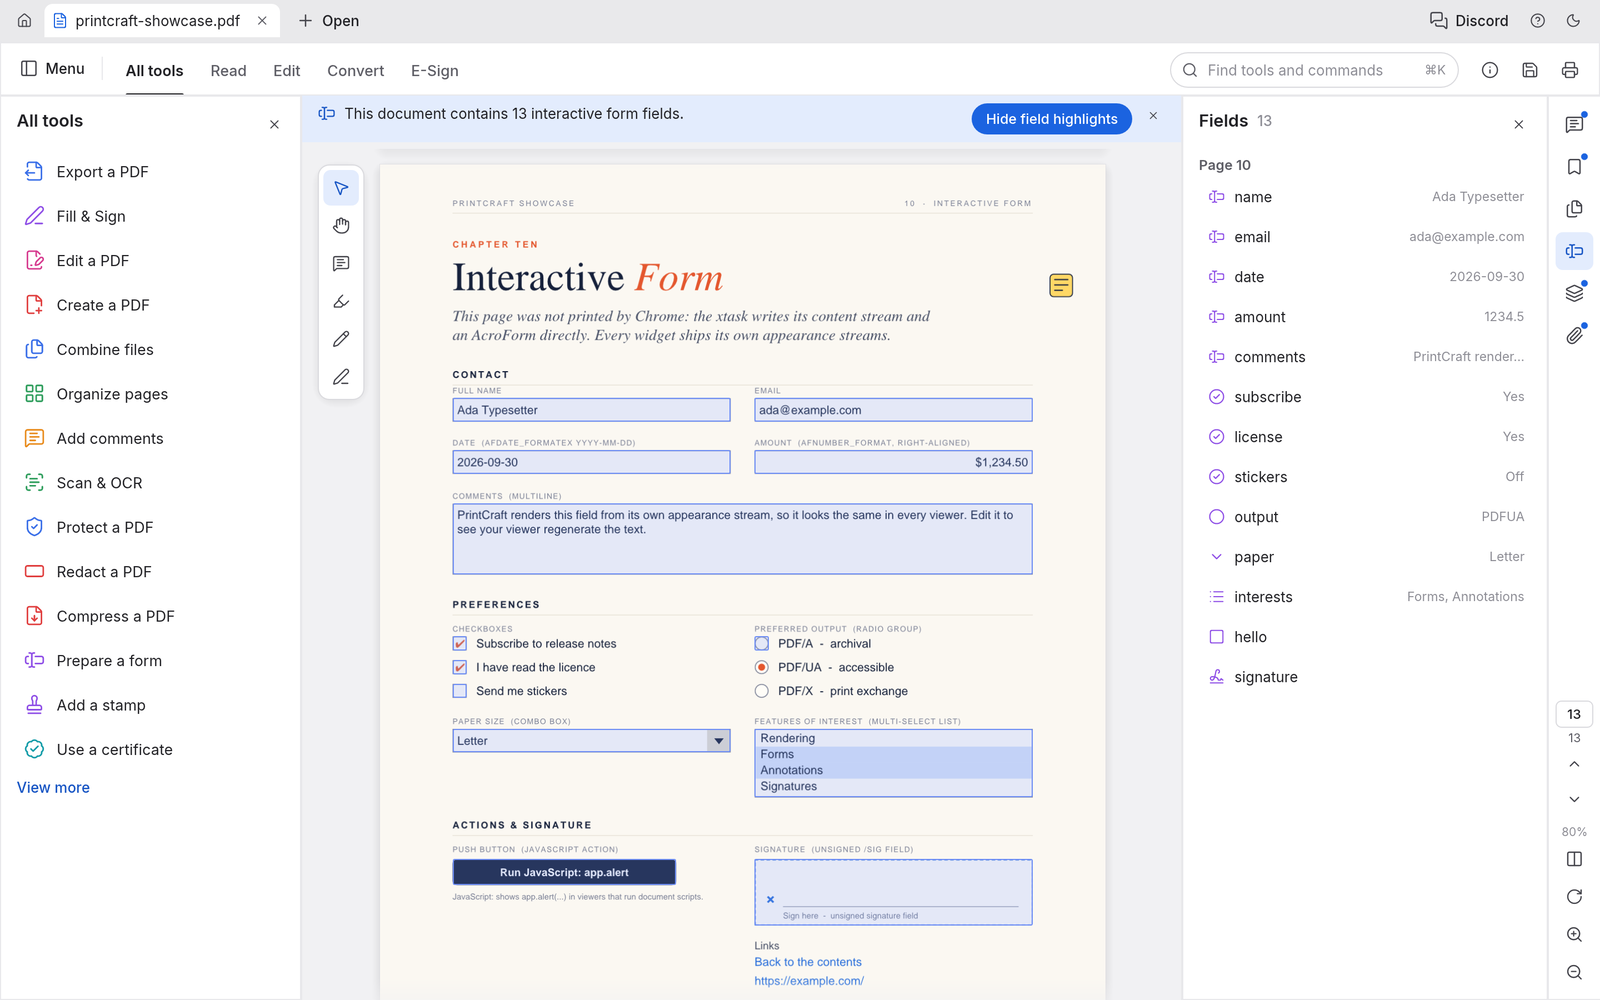
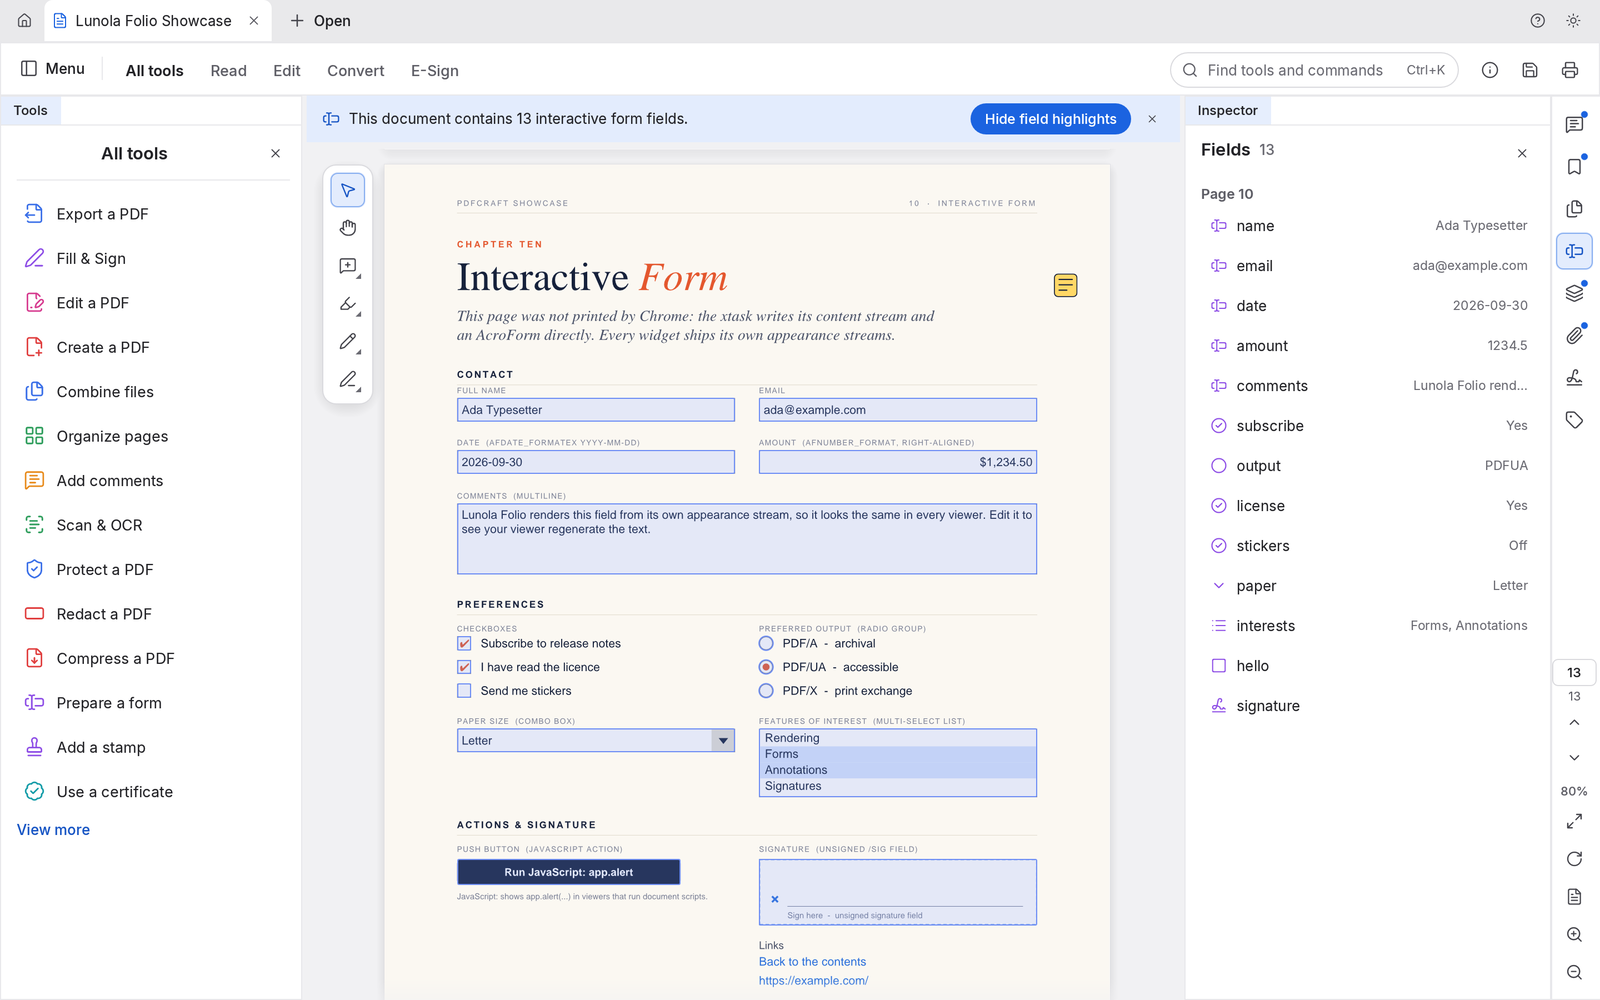
Screenshots: regenerate them, and fix the branding they exposed
The README screenshots were still upstream renders. Regenerating them found
three real bugs, each hidden because the failures were silent:

- The demo-PDF builder wrote dist/demo/pdfcraft-showcase.pdf while the
  screenshot job read dist/demo/lunola-folio-showcase.pdf, so every shot
  rendered an empty viewer. Five of the thirteen were byte-identical, which is
  what gave it away.
- The annotation markers in assets/demo/showcase.html said
  mark.lunola-folio.invalid while the post-processor matched
  mark.pdfcraft.invalid, so the showcase carried 5 annotations instead of 24.
- The showcase cover still read "PrintCraft Showcase".

All thirteen shots now render the document (13 distinct hashes, 377-834 KB),
the cover reads "Lunola Folio Showcase", and the showcase carries its full 24
annotations. Verified by reading the rendered images, not just the exit code.

cargo xtask assets: ok (276 assets).

diff --git a/assets/demo/showcase.html b/assets/demo/showcase.html
@@ -347,7 +347,7 @@ a.box { position: absolute; display: block; color: transparent; font-size: 1pt; 
   </svg>
   <div class="inner">
     <div class="edition">Specimen &middot; Volume One</div>
-    <h1>Print<span class="it">Craft</span><br>Showcase</h1>
+    <h1>Lunola <span class="it">Folio</span><br>Showcase</h1>
     <div class="grad">A tour of the page, glyph by glyph.</div>
     <p class="sub">Typography, world scripts, vector graphics, mathematics, forms and annotations &mdash; gathered in one document to put a PDF engine through its paces.</p>
     <div class="meta">

diff --git a/xtask/src/demo_pdf/postprocess.rs b/xtask/src/demo_pdf/postprocess.rs
@@ -8,14 +8,14 @@ use super::form::{self, FormInputs};
 use super::pdf::{Content, Font, Fonts, Stamp, colors, name, text};
 
 /// Links to this prefix in showcase.html mark where annotations go.
-const MARKER_PREFIX: &str = "https://mark.pdfcraft.invalid/";
+const MARKER_PREFIX: &str = "https://mark.lunola-folio.invalid/";
 
 const TITLE: &str = "Lunola Folio Showcase";
 const AUTHOR: &str = "Lunola Folio";
 const SUBJECT: &str = "A specimen document exercising typography, world scripts, vector graphics, \
                        MathML, forms, annotations, layers and attachments.";
 const KEYWORDS: &[&str] = &["PDF", "typography", "OpenType", "AcroForm", "annotations", "optional content", "Lunola Folio"];
-const CREATOR: &str = "pdfcraft xtask demo-pdf";
+const CREATOR: &str = "lunola-folio xtask demo-pdf";
 
 /// Chrome-printed page indices (0-based) that the post-processor refers to.
 const PAGE_CONTENTS: usize = 1;

diff --git a/crates/automation/tests/automation.rs b/crates/automation/tests/automation.rs
@@ -1639,7 +1639,7 @@ fn protecting_with_a_password_encryption_ignores_is_refused() {
 #[test]
 fn forms_through_tools() {
     let dir = workdir("forms");
-    let src = std::path::Path::new(env!("CARGO_MANIFEST_DIR")).join("../../dist/demo/pdfcraft-showcase.pdf");
+    let src = std::path::Path::new(env!("CARGO_MANIFEST_DIR")).join("../../dist/demo/lunola-folio-showcase.pdf");
     if !src.exists() {
         eprintln!("skipped: run `cargo xtask demo-pdf` for the showcase form");
         return;

diff --git a/xtask/src/demo_pdf/mod.rs b/xtask/src/demo_pdf/mod.rs
@@ -36,7 +36,7 @@ pub fn run(args: &[String]) -> Result<()> {
     }
 
     let root = repo_root();
-    let out = out_override.unwrap_or_else(|| root.join("dist/demo/pdfcraft-showcase.pdf"));
+    let out = out_override.unwrap_or_else(|| root.join("dist/demo/lunola-folio-showcase.pdf"));
     let build = root.join("dist/demo/build");
     fs::create_dir_all(&build).with_context(|| format!("creating {}", build.display()))?;
     if let Some(parent) = out.parent() {

diff --git a/xtask/src/demo_pdf/annots.rs b/xtask/src/demo_pdf/annots.rs
@@ -119,7 +119,7 @@ impl Annotator {
             "Subj" => text(subtype),
             "M" => Object::string_literal(when.pdf.clone()),
             "CreationDate" => Object::string_literal(when.pdf),
-            "NM" => Object::string_literal(format!("pdfcraft-showcase-{:03}-{}", self.seq, subtype.to_lowercase())),
+            "NM" => Object::string_literal(format!("lunola-folio-showcase-{:03}-{}", self.seq, subtype.to_lowercase())),
         }
     }
 

diff --git a/ATTRIBUTION.md b/ATTRIBUTION.md
@@ -245,19 +245,6 @@ Every asset Lunola Folio includes, bundles or uses to build its published materi
 | `assets/app-icon/hicolor/128x128/apps/dev.pujosety.lunola-folio.png` | Lunola Folio app icon, 128 px | Lunola Folio contributors (product owner's original artwork for the Lunola Folio rebrand; downsampled with Lanczos) | MIT OR Apache-2.0 | Contributor-original (see assets/app-icon/README.md) | Linux hicolor theme icon (packaging/linux/dev.pujosety.lunola-folio.desktop) |
 | `assets/app-icon/hicolor/256x256/apps/dev.pujosety.lunola-folio.png` | Lunola Folio app icon, 256 px | Lunola Folio contributors (product owner's original artwork for the Lunola Folio rebrand; downsampled with Lanczos) | MIT OR Apache-2.0 | Contributor-original (see assets/app-icon/README.md) | Linux hicolor theme icon (packaging/linux/dev.pujosety.lunola-folio.desktop); runtime window icon on Windows and Linux (apps/lunola-folio/src/main.rs) |
 | `assets/app-icon/hicolor/512x512/apps/dev.pujosety.lunola-folio.png` | Lunola Folio app icon, 512 px | Lunola Folio contributors (product owner's original artwork for the Lunola Folio rebrand; downsampled with Lanczos) | MIT OR Apache-2.0 | Contributor-original (see assets/app-icon/README.md) | Linux hicolor theme icon (packaging/linux/dev.pujosety.lunola-folio.desktop) |
-| `docs/images/lunola-folio-bookmarks.png` | Lunola Folio screenshot: Bookmarks | Lunola Folio contributors (generated by `cargo xtask screenshots`) | MIT OR Apache-2.0 | this repository | README: navigation. Shows only Lunola Folio UI, Lucide icons and the showcase PDF built from the [[fetched]] OFL fonts |
-| `docs/images/lunola-folio-dark.png` | Lunola Folio screenshot: Dark theme | Lunola Folio contributors (generated by `cargo xtask screenshots`) | MIT OR Apache-2.0 | this repository | README: themes. Shows only Lunola Folio UI, Lucide icons and the showcase PDF built from the [[fetched]] OFL fonts |
-| `docs/images/lunola-folio-find.png` | Lunola Folio screenshot: Find text | Lunola Folio contributors (generated by `cargo xtask screenshots`) | MIT OR Apache-2.0 | this repository | README: search. Shows only Lunola Folio UI, Lucide icons and the showcase PDF built from the [[fetched]] OFL fonts |
-| `docs/images/lunola-folio-forms.png` | Lunola Folio screenshot: Interactive form | Lunola Folio contributors (generated by `cargo xtask screenshots`) | MIT OR Apache-2.0 | this repository | README: forms. Shows only Lunola Folio UI, Lucide icons and the showcase PDF built from the [[fetched]] OFL fonts |
-| `docs/images/lunola-folio-layers.png` | Lunola Folio screenshot: Layers | Lunola Folio contributors (generated by `cargo xtask screenshots`) | MIT OR Apache-2.0 | this repository | README: layers. Shows only Lunola Folio UI, Lucide icons and the showcase PDF built from the [[fetched]] OFL fonts |
-| `docs/images/lunola-folio-organize.png` | Lunola Folio screenshot: Organize pages | Lunola Folio contributors (generated by `cargo xtask screenshots`) | MIT OR Apache-2.0 | this repository | README: organize. Shows only Lunola Folio UI, Lucide icons and the showcase PDF built from the [[fetched]] OFL fonts |
-| `docs/images/lunola-folio-palette.png` | Lunola Folio screenshot: Command palette | Lunola Folio contributors (generated by `cargo xtask screenshots`) | MIT OR Apache-2.0 | this repository | README: tools. Shows only Lunola Folio UI, Lucide icons and the showcase PDF built from the [[fetched]] OFL fonts |
-| `docs/images/lunola-folio-properties.png` | Lunola Folio screenshot: Document properties | Lunola Folio contributors (generated by `cargo xtask screenshots`) | MIT OR Apache-2.0 | this repository | README: metadata. Shows only Lunola Folio UI, Lucide icons and the showcase PDF built from the [[fetched]] OFL fonts |
-| `docs/images/lunola-folio-scripts.png` | Lunola Folio screenshot: Scripts of the world | Lunola Folio contributors (generated by `cargo xtask screenshots`) | MIT OR Apache-2.0 | this repository | README: rendering. Shows only Lunola Folio UI, Lucide icons and the showcase PDF built from the [[fetched]] OFL fonts |
-| `docs/images/lunola-folio-split.png` | Lunola Folio screenshot: Split dialog | Lunola Folio contributors (generated by `cargo xtask screenshots`) | MIT OR Apache-2.0 | this repository | README: split. Shows only Lunola Folio UI, Lucide icons and the showcase PDF built from the [[fetched]] OFL fonts |
-| `docs/images/lunola-folio-tools.png` | Lunola Folio screenshot: All tools | Lunola Folio contributors (generated by `cargo xtask screenshots`) | MIT OR Apache-2.0 | this repository | README: tool catalogue. Shows Lunola Folio UI, Lucide icons, the showcase PDF built from the [[fetched]] OFL fonts, and the Lunola mark (Storyteller trademark from docs/brand/, not covered by this licence) |
-| `docs/images/lunola-folio-twoup.png` | Lunola Folio screenshot: Two-up reading | Lunola Folio contributors (generated by `cargo xtask screenshots`) | MIT OR Apache-2.0 | this repository | README: layouts. Shows only Lunola Folio UI, Lucide icons and the showcase PDF built from the [[fetched]] OFL fonts |
-| `docs/images/lunola-folio-viewer.png` | Lunola Folio screenshot: Viewer with comments | Lunola Folio contributors (generated by `cargo xtask screenshots`) | MIT OR Apache-2.0 | this repository | README hero. Shows only Lunola Folio UI, Lucide icons and the showcase PDF built from the [[fetched]] OFL fonts |
 | `assets/icons/pin.svg` | Lucide icon "pin" | Lucide Contributors (portions Cole Bemis, Feather) | ISC | https://github.com/lucide-icons/lucide (npm lucide-static 1.49.0, icons/pin.svg) | UI icon, embedded via crates/ui-egui/src/icon_data.rs |
 | `assets/icons/move-right.svg` | Lucide icon "move-right" | Lucide Contributors (portions Cole Bemis, Feather) | ISC | https://github.com/lucide-icons/lucide (npm lucide-static 1.49.0, icons/move-right.svg) | UI icon, embedded via crates/ui-egui/src/icon_data.rs |
 | `assets/icons/reply.svg` | Lucide icon "reply" | Lucide Contributors (portions Cole Bemis, Feather) | ISC | https://github.com/lucide-icons/lucide (npm lucide-static 1.49.0, icons/reply.svg) | UI icon, embedded via crates/ui-egui/src/icon_data.rs |
@@ -284,6 +271,19 @@ Every asset Lunola Folio includes, bundles or uses to build its published materi
 | `assets/app-icon/lunola-folio-256.png` | Lunola Folio app icon, 256 px | Lunola Folio contributors (product owner's original artwork for the Lunola Folio rebrand; downsampled with Lanczos) | MIT OR Apache-2.0 | Contributor-original (see assets/app-icon/README.md) | Downsampled icon; source of the .ico/.icns entries and of the Linux hicolor set |
 | `assets/app-icon/lunola-folio-512.png` | Lunola Folio app icon, 512 px | Lunola Folio contributors (product owner's original artwork for the Lunola Folio rebrand; downsampled with Lanczos) | MIT OR Apache-2.0 | Contributor-original (see assets/app-icon/README.md) | Downsampled icon; source of the .ico/.icns entries and of the Linux hicolor set |
 | `assets/app-icon/hicolor/1024x1024/apps/dev.pujosety.lunola-folio.png` | Lunola Folio app icon, 1024 px (Linux hicolor) | Lunola Folio contributors (product owner's original artwork for the Lunola Folio rebrand; downsampled with Lanczos) | MIT OR Apache-2.0 | Contributor-original (see assets/app-icon/README.md) | Linux hicolor theme icon (packaging/linux/dev.pujosety.lunola-folio.desktop) |
+| `docs/images/lunola-folio-bookmarks.png` | Lunola Folio screenshot: Bookmarks | Lunola Folio contributors (generated by `cargo xtask screenshots`) | MIT OR Apache-2.0 | this repository | README: navigation. Shows only Lunola Folio UI, Lucide icons and the showcase PDF built from the [[fetched]] OFL fonts |
+| `docs/images/lunola-folio-dark.png` | Lunola Folio screenshot: Dark theme | Lunola Folio contributors (generated by `cargo xtask screenshots`) | MIT OR Apache-2.0 | this repository | README: themes. Shows only Lunola Folio UI, Lucide icons and the showcase PDF built from the [[fetched]] OFL fonts |
+| `docs/images/lunola-folio-find.png` | Lunola Folio screenshot: Find text | Lunola Folio contributors (generated by `cargo xtask screenshots`) | MIT OR Apache-2.0 | this repository | README: search. Shows only Lunola Folio UI, Lucide icons and the showcase PDF built from the [[fetched]] OFL fonts |
+| `docs/images/lunola-folio-forms.png` | Lunola Folio screenshot: Interactive form | Lunola Folio contributors (generated by `cargo xtask screenshots`) | MIT OR Apache-2.0 | this repository | README: forms. Shows only Lunola Folio UI, Lucide icons and the showcase PDF built from the [[fetched]] OFL fonts |
+| `docs/images/lunola-folio-layers.png` | Lunola Folio screenshot: Layers | Lunola Folio contributors (generated by `cargo xtask screenshots`) | MIT OR Apache-2.0 | this repository | README: layers. Shows only Lunola Folio UI, Lucide icons and the showcase PDF built from the [[fetched]] OFL fonts |
+| `docs/images/lunola-folio-organize.png` | Lunola Folio screenshot: Organize pages | Lunola Folio contributors (generated by `cargo xtask screenshots`) | MIT OR Apache-2.0 | this repository | README: organize. Shows only Lunola Folio UI, Lucide icons and the showcase PDF built from the [[fetched]] OFL fonts |
+| `docs/images/lunola-folio-palette.png` | Lunola Folio screenshot: Command palette | Lunola Folio contributors (generated by `cargo xtask screenshots`) | MIT OR Apache-2.0 | this repository | README: tools. Shows only Lunola Folio UI, Lucide icons and the showcase PDF built from the [[fetched]] OFL fonts |
+| `docs/images/lunola-folio-properties.png` | Lunola Folio screenshot: Document properties | Lunola Folio contributors (generated by `cargo xtask screenshots`) | MIT OR Apache-2.0 | this repository | README: metadata. Shows only Lunola Folio UI, Lucide icons and the showcase PDF built from the [[fetched]] OFL fonts |
+| `docs/images/lunola-folio-scripts.png` | Lunola Folio screenshot: Scripts of the world | Lunola Folio contributors (generated by `cargo xtask screenshots`) | MIT OR Apache-2.0 | this repository | README: rendering. Shows only Lunola Folio UI, Lucide icons and the showcase PDF built from the [[fetched]] OFL fonts |
+| `docs/images/lunola-folio-split.png` | Lunola Folio screenshot: Split dialog | Lunola Folio contributors (generated by `cargo xtask screenshots`) | MIT OR Apache-2.0 | this repository | README: split. Shows only Lunola Folio UI, Lucide icons and the showcase PDF built from the [[fetched]] OFL fonts |
+| `docs/images/lunola-folio-tools.png` | Lunola Folio screenshot: All tools | Lunola Folio contributors (generated by `cargo xtask screenshots`) | MIT OR Apache-2.0 | this repository | README: tool catalogue. Shows Lunola Folio UI, Lucide icons, the showcase PDF built from the [[fetched]] OFL fonts, and the Lunola mark (Storyteller trademark from docs/brand/, not covered by this licence) |
+| `docs/images/lunola-folio-twoup.png` | Lunola Folio screenshot: Two-up reading | Lunola Folio contributors (generated by `cargo xtask screenshots`) | MIT OR Apache-2.0 | this repository | README: layouts. Shows only Lunola Folio UI, Lucide icons and the showcase PDF built from the [[fetched]] OFL fonts |
+| `docs/images/lunola-folio-viewer.png` | Lunola Folio screenshot: Viewer with comments | Lunola Folio contributors (generated by `cargo xtask screenshots`) | MIT OR Apache-2.0 | this repository | README hero. Shows only Lunola Folio UI, Lucide icons and the showcase PDF built from the [[fetched]] OFL fonts |
 
 ## Compiled in through dependencies (6)
 
